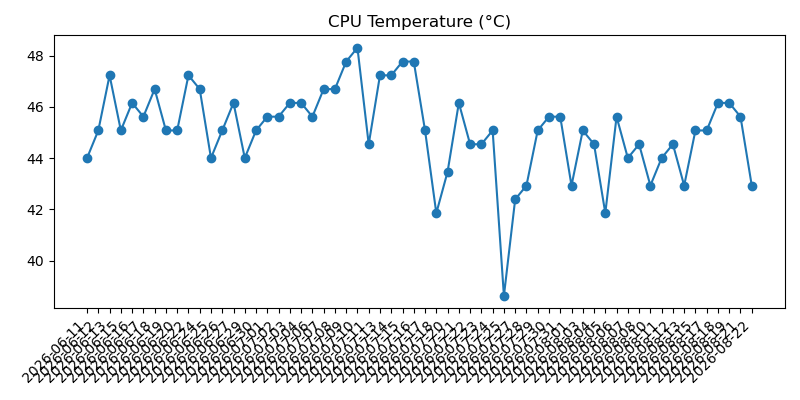
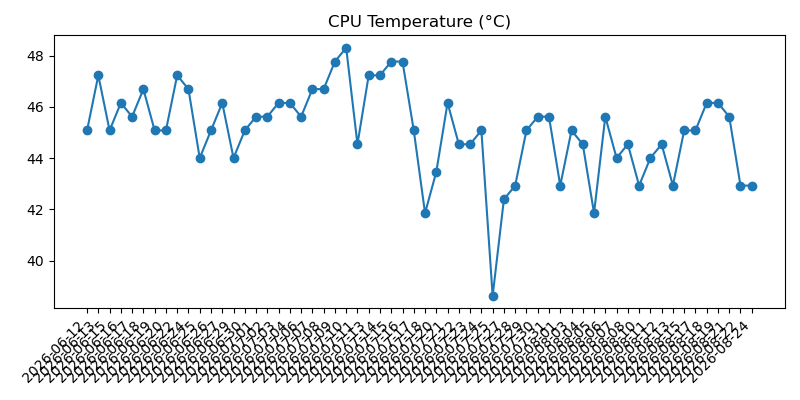
Record daily machine check

Changed region(s): [[0.0938, 0.09, 0.9375, 0.75], [0.0938, 0.81, 0.9375, 0.87]]

diff --git a/2026-08.md b/2026-08.md
@@ -578,3 +578,37 @@
 - Overall: Warning
 - Warning: Power issue detected: Undervoltage has occurred; Throttling has occurred
 
+## 2026-08-24 10:13:31
+
+### Machine
+- Uptime: up 3 days, 2 hours, 7 minutes
+- CPU load (1m, 5m, 15m): 0.00, 0.00, 0.00
+- RAM used: 170 MB / 921 MB (18.4%)
+- Disk used (/): 3.6 GB / 28.8 GB (12.5%)
+- Free disk space (/): 24.0 GB
+- CPU temp: 42.9°C
+- Voltage / throttling: Undervoltage has occurred; Throttling has occurred
+
+### Reachability
+- Internet check (1.1.1.1): Reachable (4.2 ms)
+
+### Weather
+- Madrid:
+  - Condition: Muy nuboso con lluvia escasa
+  - Max temp: 27°C
+  - Min temp: 21°C
+  - Feels like: 24°C
+  - Chance of rain: 95%
+  - Warnings: None reported
+- Barcelona:
+  - Condition: Nuboso con lluvia
+  - Max temp: 31°C
+  - Min temp: 23°C
+  - Feels like: 29°C
+  - Chance of rain: 100%
+  - Warnings: None reported
+
+### Health
+- Overall: Warning
+- Warning: Power issue detected: Undervoltage has occurred; Throttling has occurred
+
